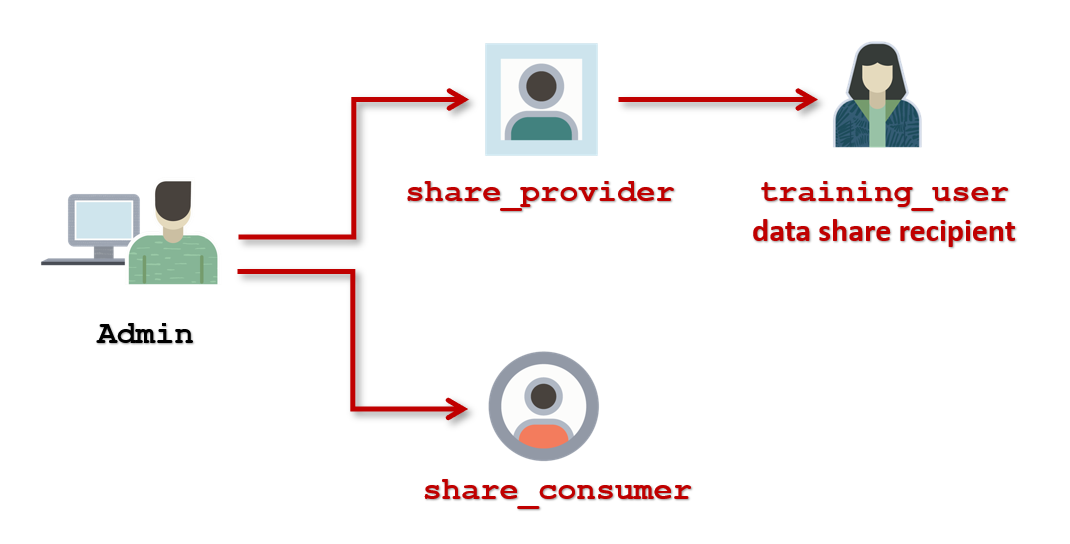
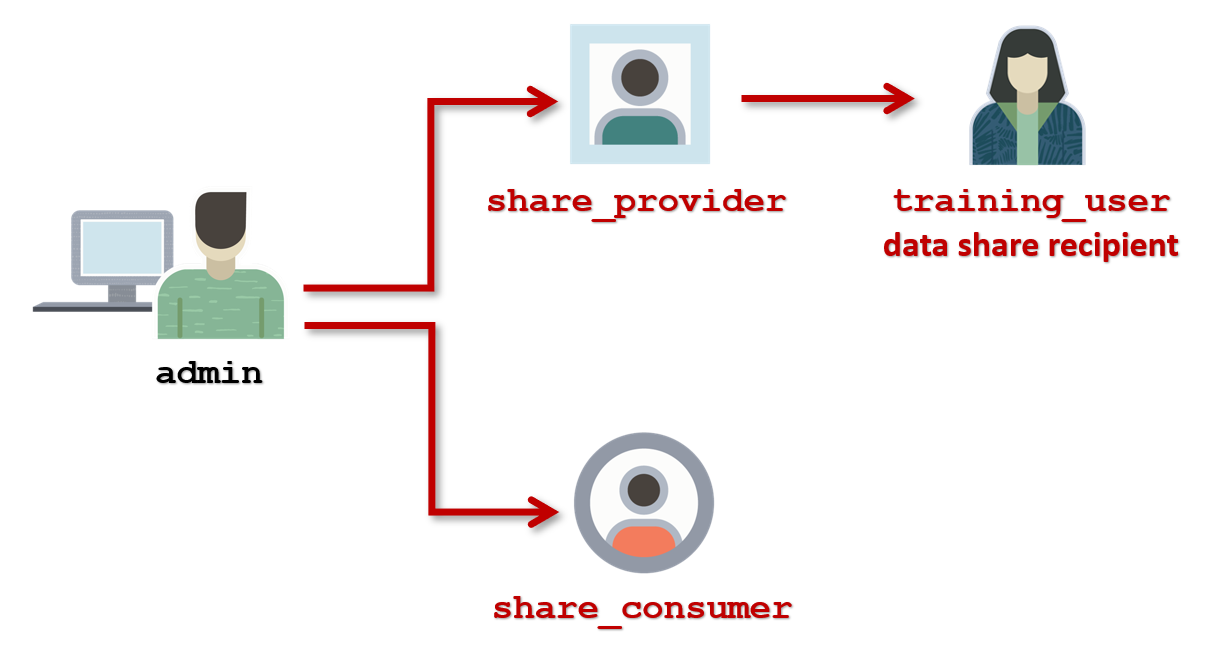
updates

Changed region(s): [[0.0308, 0.0312, 0.9869, 0.9688], [0.0925, 0.5625, 0.2159, 0.6562]]

diff --git a/shared/adw-data-lake/use-data-sharing/introduction/introduction.md b/shared/adw-data-lake/use-data-sharing/introduction/introduction.md
@@ -10,7 +10,7 @@ Data is made accessible by the data sharing provider (such as Oracle Autonomous 
 
 There are several methods to set up and consume data sharing using:
 
-* PL/SQL scripts using delta sharing protocol (this workshop)
+* PL/SQL scripts using delta sharing protocol **(covered in this workshop)**
 * PL/SQL scripts using Cloud links
 * Database Actions in Autonomous Database (ADB) using delta sharing protocol
 * Database Actions in Autonomous Database (ADB) using Cloud links
@@ -64,7 +64,8 @@ The open Delta Sharing protocol is aimed to solve the following problems:
 * Provide strong security, auditing, and governance
 * Scale to massive data sets
 
-In this workshop, you will assume the responsibility of several users. For example, you will initially log in as the default ADB **`admin`** user to create a **`share_provider`** user, a **`share_consumer`** user, and to perform various administration tasks. The **`share_provider`** user creates a data share recipient named **`training_user`**. In various labs, you will log in as either the **`share_provider`** user or the **`share_consumer`** user to perform the appropriate tasks associated with those users.
+**Important:**    
+In this workshop, you will assume the responsibilities of several users. Initially, you will log in as the default ADB **`admin`** user to create a **`share_provider`** user, a **`share_consumer`** user, and to perform various administration tasks. The **`share_provider`** user creates a data share recipient named **`training_user`**. In various labs, you will log in as either the **`share_provider`** user or the **`share_consumer`** user to perform the appropriate tasks associated with those users.
 
 **_In real use cases, there will be different users performing different responsibilities._**
 

diff --git a/shared/adw-data-lake/use-data-sharing/create-share-recipients/create-share-recipients.md b/shared/adw-data-lake/use-data-sharing/create-share-recipients/create-share-recipients.md
@@ -25,7 +25,7 @@ This lab assumes that you have successfully completed all of the preceding labs 
 
 ## Task 1: Create a Data Share Recipient
 
-1. As the **`share_provider`** user, create a new data share recipientxx named **`training_user`**. The `token_lifetime` parameter specifies for how long the generated token will be valid. In this example, we specified **90 days**. Copy and paste the following script into your SQL Worksheet, and then click the **Run Script** icon.
+1. As the **`share_provider`** user, create a new data share recipient named **`training_user`**. The `token_lifetime` parameter specifies for how long the generated token will be valid. In this example, we specified **90 days**. Copy and paste the following script into your SQL Worksheet, and then click the **Run Script** icon.
 
     ```
     <copy>
